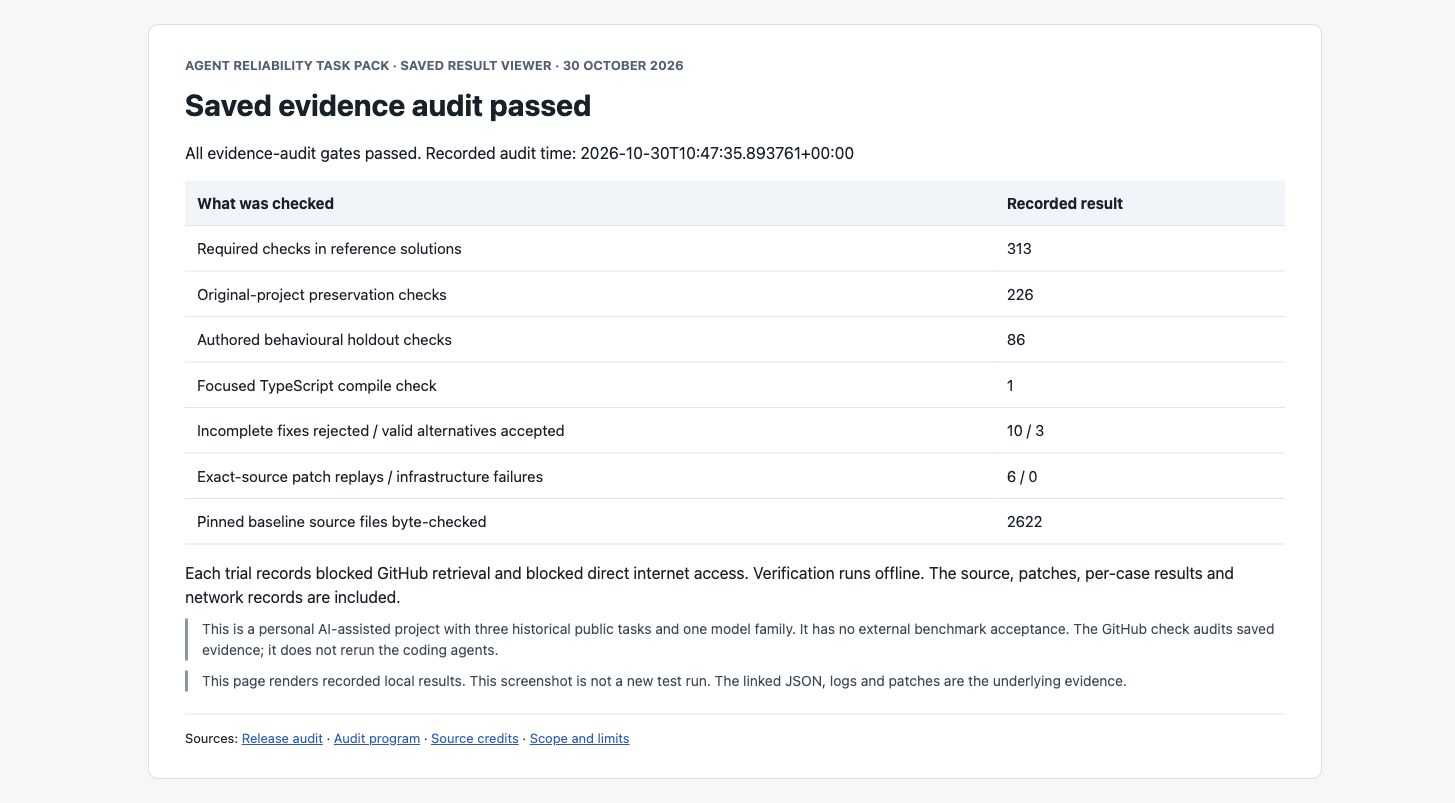
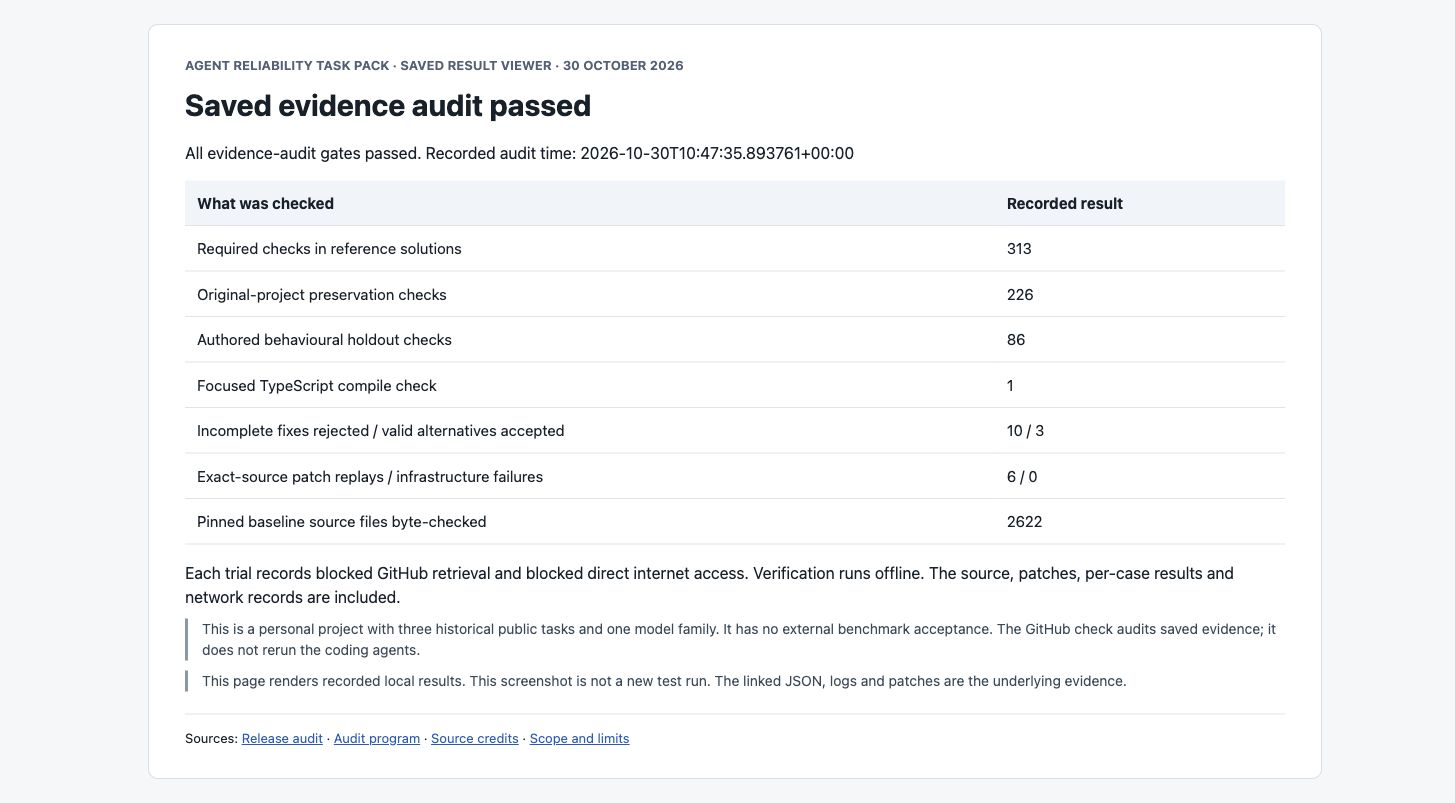
Update project wording and author display

Changed region(s): [[0.1546, 0.7783, 0.866, 0.8406]]

diff --git a/docs/proof/audit.html b/docs/proof/audit.html
@@ -7,4 +7,4 @@ p{margin:10px 0}table{width:100%;border-collapse:collapse;margin:16px 0;font-siz
 th,td{padding:11px 12px;border-bottom:1px solid #dfe4ea;vertical-align:top}a{color:#095bb5}
 .label{font-size:13px;font-weight:650;color:#526174}.note{border-left:3px solid #8b98a6;padding-left:14px;font-size:14px;color:#394957}
 .sources{font-size:13px;margin-top:22px;border-top:1px solid #dfe4ea;padding-top:14px;overflow-wrap:anywhere}
-</style><main><div class="label">AGENT RELIABILITY TASK PACK · SAVED RESULT VIEWER · 30 OCTOBER 2026</div><h1>Saved evidence audit passed</h1><p>All evidence-audit gates passed. Recorded audit time: 2026-10-30T10:47:35.893761+00:00</p><table><thead><tr><th>What was checked</th><th>Recorded result</th></tr></thead><tbody><tr><td>Required checks in reference solutions</td><td>313</td></tr><tr><td>Original-project preservation checks</td><td>226</td></tr><tr><td>Authored behavioural holdout checks</td><td>86</td></tr><tr><td>Focused TypeScript compile check</td><td>1</td></tr><tr><td>Incomplete fixes rejected / valid alternatives accepted</td><td>10 / 3</td></tr><tr><td>Exact-source patch replays / infrastructure failures</td><td>6 / 0</td></tr><tr><td>Pinned baseline source files byte-checked</td><td>2622</td></tr></tbody></table><p>Each trial records blocked GitHub retrieval and blocked direct internet access. Verification runs offline. The source, patches, per-case results and network records are included.</p><p class='note'>This is a personal AI-assisted project with three historical public tasks and one model family. It has no external benchmark acceptance. The GitHub check audits saved evidence; it does not rerun the coding agents.</p><p class="note">This page renders recorded local results. This screenshot is not a new test run. The linked JSON, logs and patches are the underlying evidence.</p><div class="sources">Sources: <a href="../../evidence/release-audit.json">Release audit</a> · <a href="../../tools/report.py">Audit program</a> · <a href="../../SOURCES.md">Source credits</a> · <a href="../../VERIFICATION.md">Scope and limits</a></div></main></html>
+</style><main><div class="label">AGENT RELIABILITY TASK PACK · SAVED RESULT VIEWER · 30 OCTOBER 2026</div><h1>Saved evidence audit passed</h1><p>All evidence-audit gates passed. Recorded audit time: 2026-10-30T10:47:35.893761+00:00</p><table><thead><tr><th>What was checked</th><th>Recorded result</th></tr></thead><tbody><tr><td>Required checks in reference solutions</td><td>313</td></tr><tr><td>Original-project preservation checks</td><td>226</td></tr><tr><td>Authored behavioural holdout checks</td><td>86</td></tr><tr><td>Focused TypeScript compile check</td><td>1</td></tr><tr><td>Incomplete fixes rejected / valid alternatives accepted</td><td>10 / 3</td></tr><tr><td>Exact-source patch replays / infrastructure failures</td><td>6 / 0</td></tr><tr><td>Pinned baseline source files byte-checked</td><td>2622</td></tr></tbody></table><p>Each trial records blocked GitHub retrieval and blocked direct internet access. Verification runs offline. The source, patches, per-case results and network records are included.</p><p class='note'>This is a personal project with three historical public tasks and one model family. It has no external benchmark acceptance. The GitHub check audits saved evidence; it does not rerun the coding agents.</p><p class="note">This page renders recorded local results. This screenshot is not a new test run. The linked JSON, logs and patches are the underlying evidence.</p><div class="sources">Sources: <a href="../../evidence/release-audit.json">Release audit</a> · <a href="../../tools/report.py">Audit program</a> · <a href="../../SOURCES.md">Source credits</a> · <a href="../../VERIFICATION.md">Scope and limits</a></div></main></html>

diff --git a/tools/build_review.py b/tools/build_review.py
@@ -58,9 +58,9 @@ def main():
     page("audit", "Saved evidence audit passed",
          "<p>All evidence-audit gates passed. Recorded audit time: " + html.escape(audit["audited_at"]) + "</p>" +
          table(["What was checked", "Recorded result"], audit_rows) +
-         "<p>Each trial records blocked GitHub retrieval and blocked direct internet access. Verification runs offline. The source, patches, per-case results and network records are included.</p><p class='note'>This is a personal AI-assisted project with three historical public tasks and one model family. It has no external benchmark acceptance. The GitHub check audits saved evidence; it does not rerun the coding agents.</p>",
+         "<p>Each trial records blocked GitHub retrieval and blocked direct internet access. Verification runs offline. The source, patches, per-case results and network records are included.</p><p class='note'>This is a personal project with three historical public tasks and one model family. It has no external benchmark acceptance. The GitHub check audits saved evidence; it does not rerun the coding agents.</p>",
          [("Release audit", "evidence/release-audit.json"), ("Audit program", "tools/report.py"), ("Source credits", "SOURCES.md"), ("Scope and limits", "VERIFICATION.md")])
-    markdown = ["# Review without running", "", "This is a personal task-pack project built with AI assistance. The recorded tests were hidden from the coding agents. Their source is public now for review.", "", "## Start with these records", "", "1. [Reference and original-source results](evidence/release-audit.json) show all 313 required reference checks passing, while all three original versions fail.", "2. [Six agent attempts](TRIALS.md) show original scores, final scores and the one solve timeout.", "3. [Grading corrections](FAIRNESS_REVISION.json) explain why valid schema syntax originally failed. The saved patches stayed unchanged.", "4. [Source credits](SOURCES.md) link each task to real issues and upstream fixes.", "", "## Screenshots of the saved results", "", "These are actual browser captures of the [generated result viewer](tools/build_review.py). They render the linked saved JSON. They do not depict new live agent runs.", "", "![Original and reference results](docs/proof/controls.jpg)", "", "![Six native coding attempts](docs/proof/trials.jpg)", "", "![Evidence audit](docs/proof/audit.jpg)", "", "## Every incomplete and alternative fix", "", "| Task | Variant | Passed / reported | Expected reward | Actual reward |", "| --- | --- | ---: | ---: | ---: |"]
+    markdown = ["# Review without running", "", "This is a personal task-pack project built. The recorded tests were hidden from the coding agents. Their source is public now for review.", "", "## Start with these records", "", "1. [Reference and original-source results](evidence/release-audit.json) show all 313 required reference checks passing, while all three original versions fail.", "2. [Six agent attempts](TRIALS.md) show original scores, final scores and the one solve timeout.", "3. [Grading corrections](FAIRNESS_REVISION.json) explain why valid schema syntax originally failed. The saved patches stayed unchanged.", "4. [Source credits](SOURCES.md) link each task to real issues and upstream fixes.", "", "## Screenshots of the saved results", "", "These are actual browser captures of the [generated result viewer](tools/build_review.py). They render the linked saved JSON. They do not depict new live agent runs.", "", "![Original and reference results](docs/proof/controls.jpg)", "", "![Six native coding attempts](docs/proof/trials.jpg)", "", "![Evidence audit](docs/proof/audit.jpg)", "", "## Every incomplete and alternative fix", "", "| Task | Variant | Passed / reported | Expected reward | Actual reward |", "| --- | --- | ---: | ---: | ---: |"]
     matrices = [("AnyIO", "evidence/final-anyio-controls/summary.json", "variants"), ("Better Auth", "tasks/better-auth-indexes/evidence/release-semantic-matrix/summary.json", "runs"), ("Werkzeug", "tasks/werkzeug-multipart/evidence/docker-adversarial-controls/summary.json", "variants")]
     for label, path, key in matrices:
         for row in read(path)[key]:

diff --git a/tools/report.py b/tools/report.py
@@ -4,6 +4,7 @@ import hashlib
 import json
 from pathlib import Path
 import tarfile
+import tomllib
 
 
 ROOT = Path(__file__).resolve().parents[1]
@@ -97,6 +98,8 @@ def audit(write):
     assert len(alternatives) == 3 and all(int(record["reward"]) == 1 for record in alternatives)
     revision = read("FAIRNESS_REVISION.json")
     revised = {item["path"]: item for item in revision["changes"]}
+    publication = read("PUBLICATION_METADATA.json") if (ROOT / "PUBLICATION_METADATA.json").exists() else {}
+    metadata_changes = {item["path"]: item for item in publication.get("task_configuration_changes", [])}
     for path, item in revised.items():
         assert digest(ROOT / "tasks/better-auth-indexes" / path) == item["corrected_sha256"]
     trials = read("evidence/trial-summary.json")
@@ -114,6 +117,16 @@ def audit(write):
                 continue
             current = digest(ROOT / "tasks" / trial["task"] / relative)
             if current != recorded:
+                publication_path = "tasks/" + trial["task"] + "/" + relative
+                if relative == "task.toml" and publication_path in metadata_changes:
+                    item = metadata_changes[publication_path]
+                    assert item["original_sha256"] == recorded and item["published_sha256"] == current
+                    assert set(item["changed_fields"]) <= {"source", "task.authors"}
+                    contract = tomllib.loads((ROOT / publication_path).read_text())
+                    contract.pop("source", None)
+                    contract.get("task", {}).pop("authors", None)
+                    assert hashlib.sha256(json.dumps(contract, sort_keys=True).encode()).hexdigest() == item["execution_contract_sha256"]
+                    continue
                 assert trial["task"] == "better-auth-indexes" and relative in revised
                 assert revised[relative]["original_sha256"] == recorded and revised[relative]["corrected_sha256"] == current
         replay = read("evidence/replays/" + trial["id"] + "/replay.json")

diff --git a/tasks/better-auth-indexes/solution/ATTRIBUTION.md b/tasks/better-auth-indexes/solution/ATTRIBUTION.md
@@ -8,4 +8,4 @@ The reference patch selects the 11 production TypeScript files relevant to this 
 
 Gautam Manchandani authored the first three commits. Gustavo Valverde authored subsequent portability and custom-code validation changes. The final accepted design is their collective work. This task does not claim Gautam independently designed every part of it.
 
-The repository's MIT license remains in the complete baseline source. Test selection, additional holdout cases, incomplete-fix controls and Harbor packaging were created with Codex assistance for this personal evaluation project. They have not been accepted into an upstream benchmark.
+The repository's MIT license remains in the complete baseline source. Test selection, additional holdout cases, incomplete-fix controls and Harbor packaging were created for this personal evaluation project. They have not been accepted into an upstream benchmark.

diff --git a/PUBLISHING.md b/PUBLISHING.md
@@ -6,4 +6,6 @@ The public edition adds a short reviewer guide, screenshots of the saved result 
 
 The original local task-pack ZIP remains unchanged. SHA256SUMS in this repository describes this public edition. The current private task fingerprints remain in evidence/release-task-fingerprints.json.
 
+PUBLICATION_METADATA.json records the later author-display and description edits. Only task metadata fields changed. Runtime settings, public instructions, verifier source, submitted patches and recorded outcomes remain unchanged.
+
 Automated review is from the same available model family. Subjective portfolio scores are omitted from the public edition because they are not independent measurements. The underlying review findings and formatter checks remain available. No claim of external benchmark acceptance, employer commissioning or training-data independence is made.

diff --git a/STATE.md b/STATE.md
@@ -4,4 +4,4 @@ All three real OSS task implementations and six native coding-agent attempts are
 
 Original and corrected Better Auth results remain separate. The public tasks and submitted source patches were unchanged. A 300-second solve timeout remains a timeout despite its passing saved patch. Current private hashes are generated by tools/report.py rather than inferred from older per-task freeze files.
 
-No application, message or upstream finding has been submitted. This public GitHub edition is described in PUBLISHING.md. The application answer describes a personal AI-assisted project.
+No application, message or upstream finding has been submitted. This public GitHub edition is described in PUBLISHING.md. The application answer describes a personal project.

diff --git a/VERIFICATION.md b/VERIFICATION.md
@@ -1,6 +1,6 @@
 # Verified scope and results
 
-This report describes three personal, AI-assisted evaluation tasks. The source issues and fixes are attributed in SOURCES.md and each task's provenance record. They are full-repository repair tasks with separate private verifiers, packaged in Harbor format.
+This report describes three personal, evaluation tasks. The source issues and fixes are attributed in SOURCES.md and each task's provenance record. They are full-repository repair tasks with separate private verifiers, packaged in Harbor format.
 
 ## Required checks
 

diff --git a/NOTICE.md b/NOTICE.md
@@ -1,6 +1,6 @@
 # Source and license notice
 
-Gautam Manchandani created this personal evaluation task pack with AI assistance. Its original task specifications, additional tests, tooling and review material use the root MIT license.
+Gautam Manchandani created this personal evaluation task pack. Its original task specifications, additional tests, tooling and review material use the root MIT license.
 
 Vendored source, original tests and upstream-derived patches keep their original notices and licenses. The root license does not replace those terms.
 

diff --git a/OWNERSHIP.md b/OWNERSHIP.md
@@ -1,6 +1,6 @@
 # Attribution and ownership
 
-This is a personal evaluation project created by Gautam Manchandani with Codex assistance. It was not commissioned by an employer. The benchmark tasks have not been accepted by Terminal-Bench, Harbor's registry, SWE-bench or the upstream projects.
+This is a personal evaluation project created by Gautam Manchandani. It was not commissioned by an employer. The benchmark tasks have not been accepted by Terminal-Bench, Harbor's registry, SWE-bench or the upstream projects.
 
 ## Upstream work
 

diff --git a/README.md b/README.md
@@ -1,6 +1,6 @@
 # Agent Reliability Task Pack
 
-Three coding-agent repair tasks based on real bugs in AnyIO, Better Auth and Werkzeug. I built this personal project with AI assistance. The original source and fixes keep their authorship and licenses.
+Three coding-agent repair tasks based on real bugs in AnyIO, Better Auth and Werkzeug. I built this personal project. The original source and fixes keep their authorship and licenses.
 
 **[Review the proof without running anything →](REVIEW.md)**
 

diff --git a/REVIEW.md b/REVIEW.md
@@ -1,6 +1,6 @@
 # Review without running
 
-This is a personal task-pack project built with AI assistance. The recorded tests were hidden from the coding agents. Their source is public now for review.
+This is a personal task-pack project built. The recorded tests were hidden from the coding agents. Their source is public now for review.
 
 ## Start with these records
 
